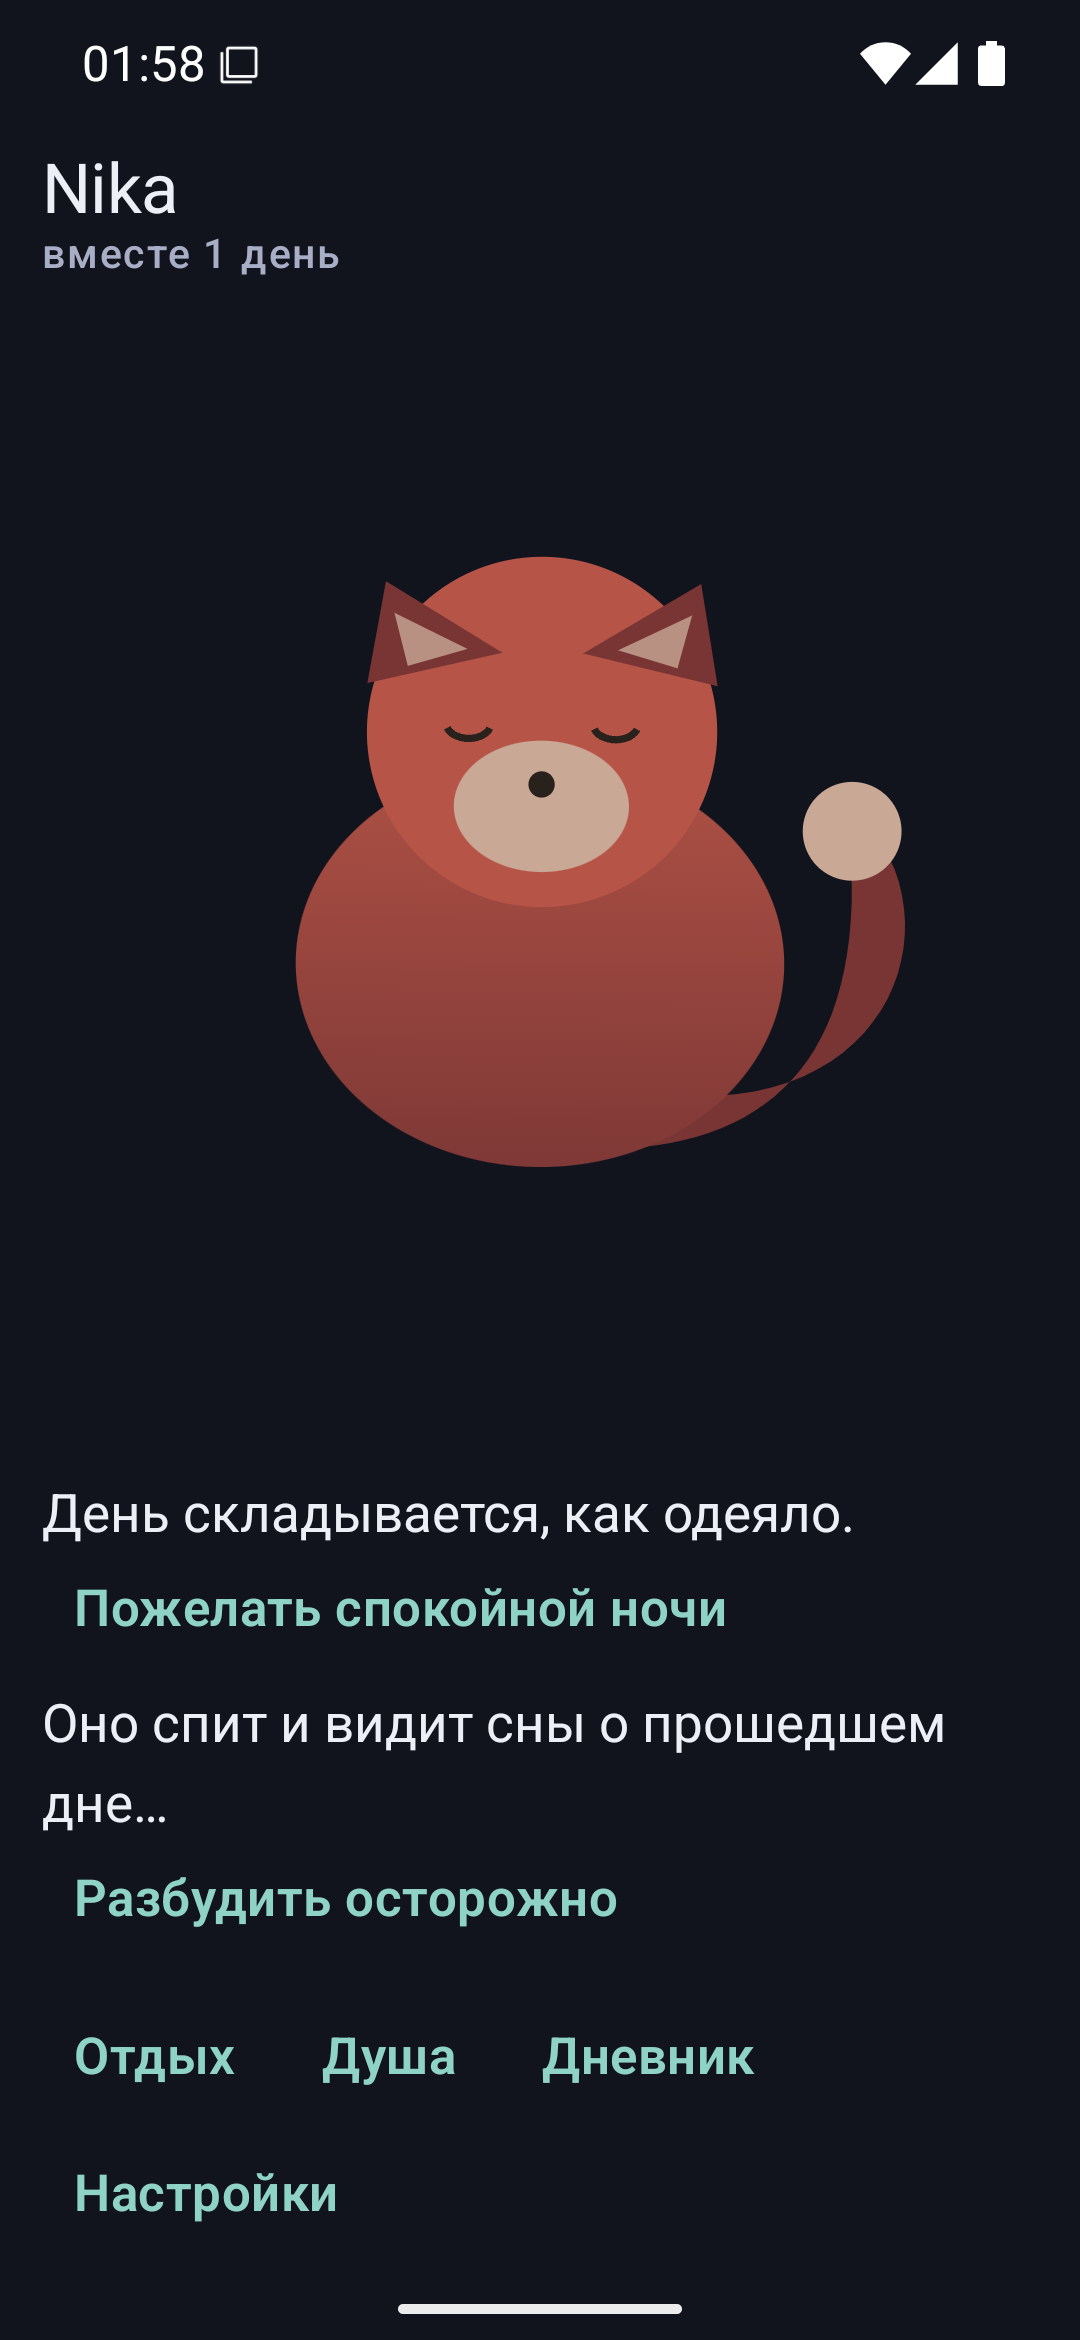
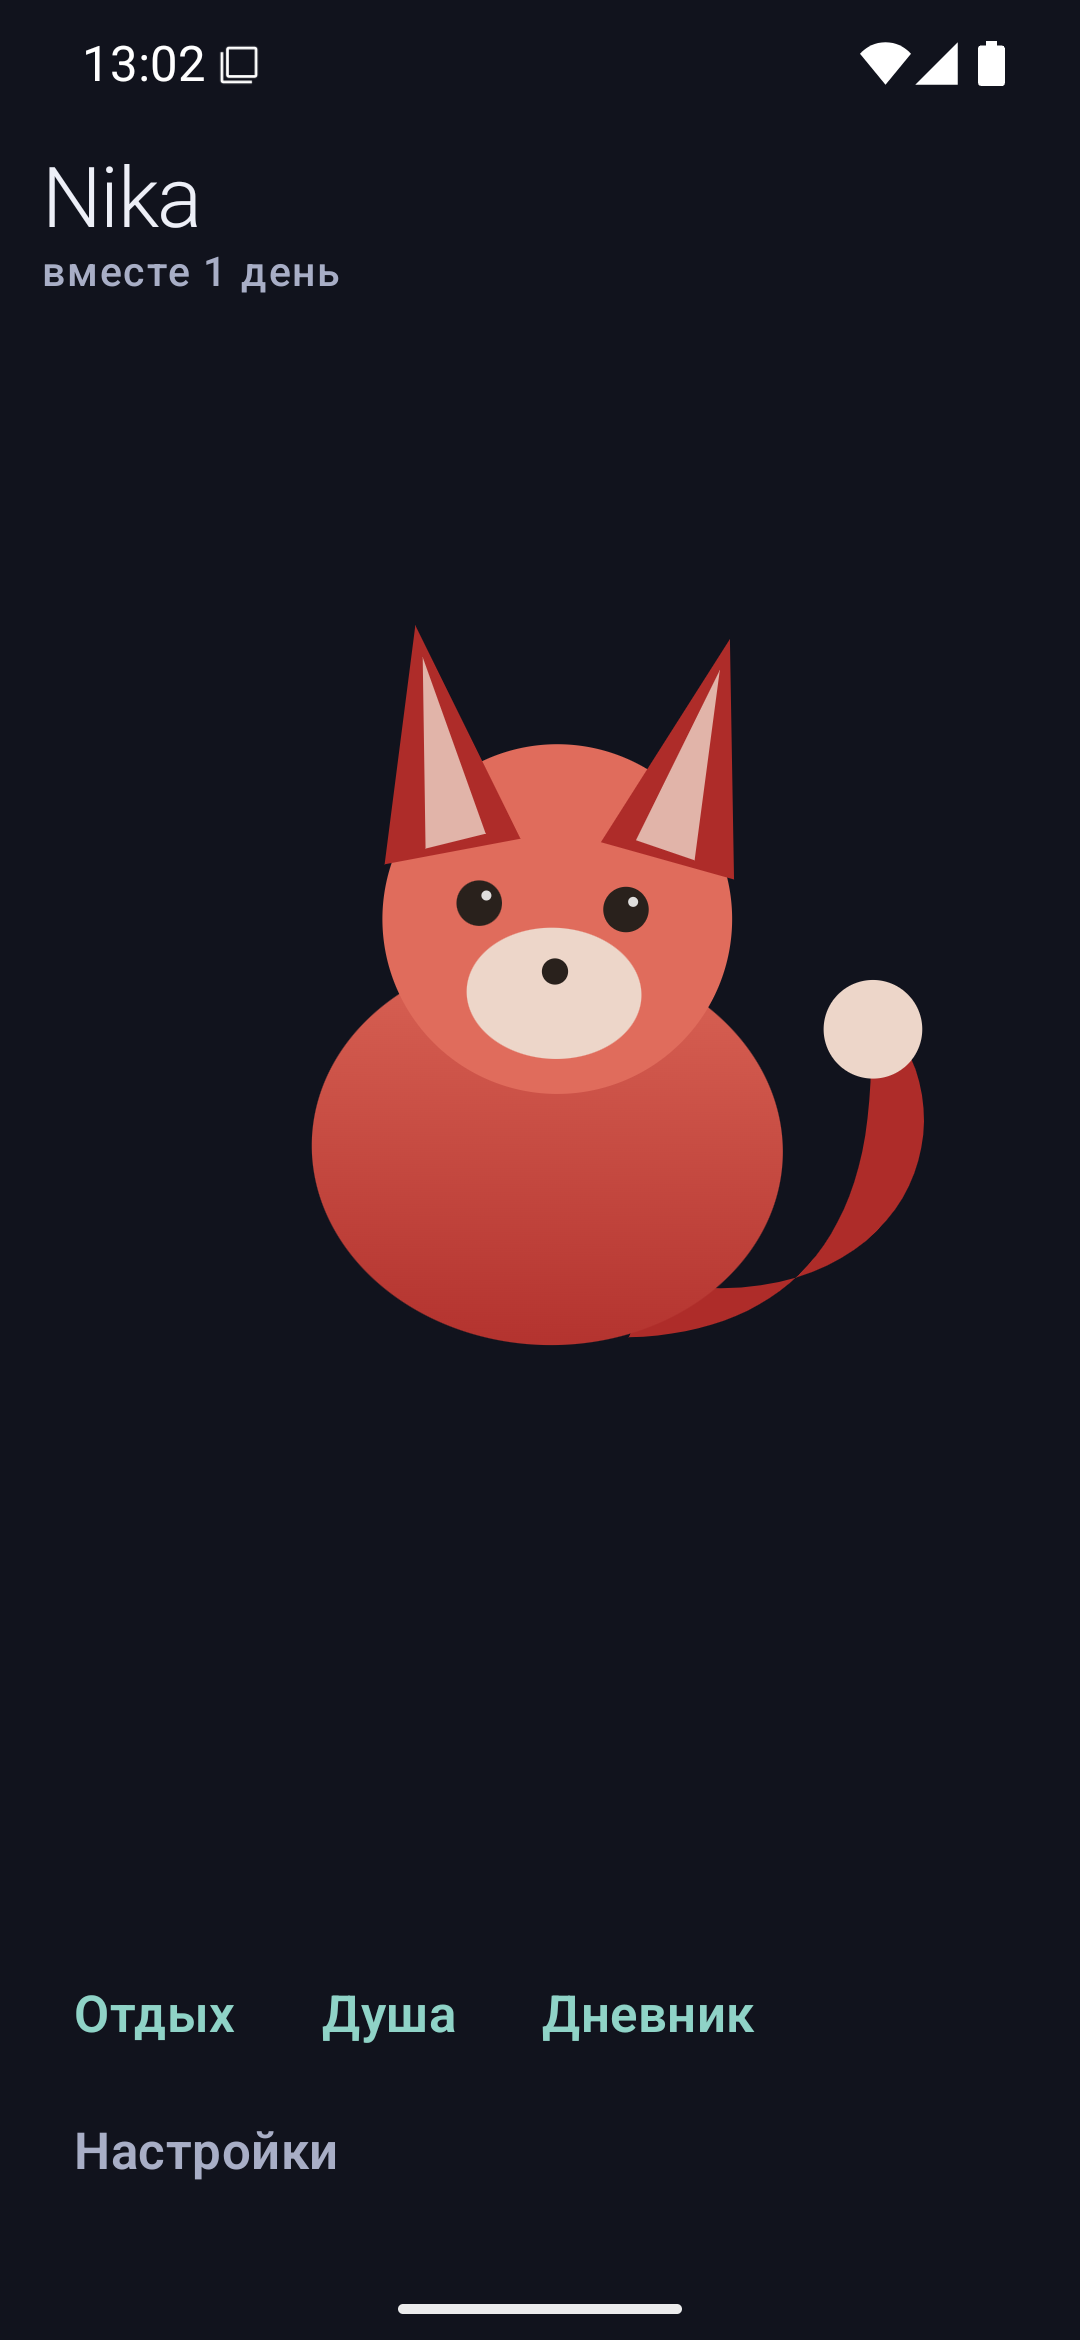
Phase 3 follow-up: the four things I called bad on Home
Bottom rhythm: notices and the way out are two groups now, separated by
the same xl the system uses everywhere to mean "new group", instead of
one undifferentiated pile in the bottom quarter.

Navigation hierarchy: GhostButton gains `quiet`, and Settings uses it.
Four equally loud accent links was D7 in miniature; the accent means
something again now that chrome is not shouting at the same volume as
the daily destinations.

The unused 44sp hero step: I listed it as a defect and I was wrong. On
this screen the hero is the body — a giant number would compete with the
exact thing Phase 3 spent its whole effort clearing space for. The name
went from headlineMedium (24 Normal) to displayMedium (32 Light)
instead, which anchors the top without picking that fight.

Stagger indices: two notices shared index 2 and appeared together, which
is the one thing a stagger exists to prevent.

What I did NOT fix, and will not fake: at midday with no notices there
is roughly a quarter-screen of void above and below the creature. That
is not Home's layout — the renderers size from size.minDimension, so on
a portrait screen the body scales to WIDTH and spare height becomes
margin. Stretching it from here would need a graphicsLayer hack over an
honest render. It is exactly task 5.2, and Home's composition is capped
until that lands.

check -Proborazzi.test.verify=true green: 366 tests, 0 failures, 0
skipped. One more golden re-recorded (adaptive-compact), one cause.
[…]

diff --git a/feature/home/src/main/kotlin/app/anima/feature/home/HomeScreen.kt b/feature/home/src/main/kotlin/app/anima/feature/home/HomeScreen.kt
@@ -176,7 +176,12 @@ fun HomeScreen(
                     .padding(horizontal = AnimaSpacing.m, vertical = AnimaSpacing.s)
                     .enterStaggered(0),
         ) {
-            Text(state.creatureName, style = MaterialTheme.typography.headlineMedium)
+            // displayMedium (32 Light), not headlineMedium (24 Normal): at 24
+            // the name sat only two steps above its own caption and the top of
+            // the screen had no anchor at all. The 44sp `hero` step is
+            // deliberately NOT used here — on this screen the hero is the
+            // body, and a giant number would compete with it.
+            Text(state.creatureName, style = MaterialTheme.typography.displayMedium)
             val days = state.daysTogether.toInt().coerceAtLeast(0)
             val daysText = pluralStringResource(R.plurals.home_days_together, days, days)
             Text(
@@ -198,7 +203,7 @@ fun HomeScreen(
         ActionRow(
             Modifier
                 .padding(horizontal = AnimaSpacing.m, vertical = AnimaSpacing.s)
-                .enterStaggered(3),
+                .enterStaggered(NOTICE_STAGGER_BASE + 3),
         ) {
             GhostButton(
                 stringResource(R.string.home_nav_rest),
@@ -219,6 +224,7 @@ fun HomeScreen(
                 stringResource(R.string.home_nav_settings),
                 onClick = onOpenSettings,
                 modifier = Modifier.testTag("home.settings"),
+                quiet = true,
             )
         }
     }
@@ -295,7 +301,7 @@ fun HomeScreen(
                     hapticFeedback.performHapticFeedback(HapticFeedbackType.LongPress)
                     viewModel.sayGoodnight()
                 },
-                index = 1,
+                index = NOTICE_STAGGER_BASE,
                 testTag = "home.goodnight",
             )
         }
@@ -309,7 +315,7 @@ fun HomeScreen(
                     hapticFeedback.performHapticFeedback(HapticFeedbackType.LongPress)
                     viewModel.wakeForDream()
                 },
-                index = 2,
+                index = NOTICE_STAGGER_BASE + 1,
                 testTag = "home.dream",
             )
         }
@@ -324,7 +330,7 @@ fun HomeScreen(
                     },
                 action = stringResource(R.string.home_ok),
                 onAction = viewModel::dismissMindNotice,
-                index = 2,
+                index = NOTICE_STAGGER_BASE + 2,
                 testTag = "home.notice",
             )
         }
@@ -407,8 +413,16 @@ internal fun HomeAdaptiveScaffold(
                     .fillMaxWidth()
                     .weight(1f),
             )
-            cards()
-            navRow()
+            // The notices and the way out are two different things and used to
+            // be one undifferentiated pile in the bottom quarter. `xl` between
+            // them is the same gap the design system uses everywhere else to
+            // mean "new group", and it is four times the spacing inside either
+            // one, so the boundary reads without a rule or a card.
+            Column(verticalArrangement = Arrangement.spacedBy(AnimaSpacing.xl)) {
+                Column { cards() }
+                navRow()
+            }
+            Spacer(Modifier.height(AnimaSpacing.m))
         }
     }
 }
@@ -446,6 +460,13 @@ private fun Notice(
         GhostButton(action, onClick = onAction, modifier = Modifier.testTag(testTag))
     }
 }
+
+/**
+ * The header enters first (0), then each notice, then the way out. Distinct
+ * indices matter: two blocks sharing one index appear simultaneously, which
+ * is the one thing a stagger is supposed to prevent.
+ */
+private const val NOTICE_STAGGER_BASE = 1
 
 /** WindowSizeClass "expanded" lower bound (dp) — the two-pane switch. */
 private const val EXPANDED_MIN_WIDTH_DP = 840

diff --git a/core/ui/src/main/kotlin/app/anima/core/ui/components/Components.kt b/core/ui/src/main/kotlin/app/anima/core/ui/components/Components.kt
@@ -48,20 +48,34 @@ fun PillButton(
     }
 }
 
-/** Quiet secondary action. */
+/**
+ * Quiet secondary action.
+ *
+ * v1.1 adds [quiet]. A row of four identical accent links has no hierarchy —
+ * it was defect D7 in miniature on Home, where "Отдых" and "Настройки" shouted
+ * equally loudly despite being a daily thing and a chrome thing. `quiet` drops
+ * the label to `textDim`, which keeps it a real target and a real affordance
+ * while letting the accent mean "this is what you came for".
+ */
 @Composable
 fun GhostButton(
     text: String,
     onClick: () -> Unit,
     modifier: Modifier = Modifier,
     enabled: Boolean = true,
+    quiet: Boolean = false,
 ) {
     val colors = LocalAnimaColors.current
     TextButton(onClick = onClick, modifier = modifier, enabled = enabled) {
         Text(
             text,
             style = MaterialTheme.typography.labelLarge,
-            color = if (enabled) colors.accent else colors.textDim,
+            color =
+                when {
+                    !enabled -> colors.textDim
+                    quiet -> colors.textDim
+                    else -> colors.accent
+                },
         )
     }
 }

diff --git a/docs/design/v11/phase3-home.md b/docs/design/v11/phase3-home.md
@@ -201,3 +201,111 @@
 `:mind-pack`: цепочка Play asset-delivery ушла с classpath, и классы,
 которые директивы удаляли, перестали существовать. Директивы оставлены:
 их работа — сработать, если библиотека вернётся.
+
+---
+
+## Доделка Home по вердикту владельца (2026-07-28, тот же день)
+
+Владелец: «сначала доделать Home». Взял ровно те четыре пункта, которые
+сам назвал плохими.
+
+### 1. Ритм низа
+
+Уведомления и выход были одной кучей в нижней четверти. Теперь это две
+группы с `xl` (32dp) между ними — тем же разрывом, каким система везде
+обозначает границу, вчетверо больше внутреннего интервала.
+
+### 2. Иерархия навигации
+
+Четыре одинаковые акцентные ссылки — это D7 в миниатюре. `GhostButton`
+получил параметр `quiet`; «Настройки» стали приглушёнными (`textDim`),
+три ежедневных пункта остались акцентными. На скриншотах разница видна
+сразу: акцент теперь что-то значит.
+
+### 3. Ступень `hero` — сознательно НЕ использована
+
+Я записал её простой как дефект. Пересмотрел: **на Home герой — это
+тело.** Цифра в 44sp конкурировала бы с ним, а вся Фаза 3 была про то,
+чтобы конкурентов у тела не осталось. Вместо этого имя подняли с
+`headlineMedium` (24 Normal) до `displayMedium` (32 Light): у верха
+экрана появился якорь, а контраст к подписи вырос без спора с телом.
+
+### 4. Совпавший stagger
+
+Два блока имели `index = 2` и появлялись одновременно — ровно то, чего
+stagger должен не допускать. Введена `NOTICE_STAGGER_BASE`, индексы
+последовательные.
+
+### Что осталось и почему я это не чиню здесь
+
+**Вертикальная пустота вокруг существа.** Днём, когда реплик нет, тело
+занимает середину, а сверху и снизу остаётся примерно по четверти
+экрана. Причина не в раскладке Home: рендереры берут размер от
+`size.minDimension` (`FoxKitRenderer.kt:22` — `0.24`), то есть на
+портретном экране тело масштабируется **по ширине**, и лишняя высота
+уходит в поля, а не в существо. Растянуть его отсюда можно только
+`graphicsLayer`-хаком поверх честного рендера — не буду.
+
+Это ровно задача 5.2 «единый масштаб кадра для всех восьми обликов».
+Пока она не сделана, композиция Home упирается в потолок, и я говорю об
+этом, а не выдаю текущее за законченное.
+
+### Контур после доделки
+
+`check -Proborazzi.test.verify=true` — **BUILD SUCCESSFUL**,
+**366 тестов, 0 падений, 0 skipped**. Перезаписан ещё один голден,
+`adaptive-compact.png` — причина та же одна: изменившаяся раскладка
+низа. Debug APK — **201,2 МиБ**.
+
+---
+
+## Экран «Формы»: что он показывает на самом деле
+
+Владелец просил проверить, попадает ли он под запрет каталога обликов,
+и **описать, не реализуя**.
+
+**Проверено по коду и по скриншоту** (`before/19-wardrobe.png`,
+`WardrobeScreen.kt:47-88`):
+
+`WardrobeUiState.concept` — **одно** тело, `identity.concept()`. Экран
+рисует его же шесть раз с разным `paletteShiftDeg` и подписывает
+условием разблокировки из `Milestones.board`. На скриншоте это
+подтверждается буквально: во всех шести карточках один и тот же
+Лисёнок, разного цвета.
+
+**То есть каталога восьми обликов там нет.** Это палитры назначенного
+тела, открывающиеся вехами отношений. Под правило «каталог обликов не
+показывать нигде» экран не попадает — по вашему же условию
+(«показывает пройденные вехи, а не облики — оставь как есть»)
+**оставляю как есть**.
+
+Три оговорки, которые честнее сказать сразу:
+
+1. Это **всё-таки поверхность выбора**: `select(variant)` пишет
+   `paletteVariant`. Выбор палитры, не тела. Если ваше решение
+   «ничего не выбирается» распространяется и на цвет — скажите, это
+   отдельное решение, я его не принимал.
+2. Все подписи там **на английском в русской локали**: «TRUE SELF»,
+   «DAWN», «AURORA», «DEEP SEA», «MOONLIT», «7 days together»,
+   «100 remembered facts». Это часть D4 (жёстко зашито в
+   `core/model/Milestones.kt:21-66`) и чинится в Фазе 4.
+3. Вход в него — кнопка «Формы…» в секции ТЕЛО Настроек. Секция
+   переделывается в паспорт, значит вход надо будет куда-то пересадить.
+   Куда — решать вам, когда дойдём до Фазы 4.
+
+## Паспорт существа — принято, к реализации в Фазе 4
+
+Записано дословно, чтобы не потерялось:
+
+- крупный **живой** портрет назначенного тела (тот же движок, не статика);
+- имя, переименование остаётся;
+- дата вылупления;
+- отпечаток генома — короткая читаемая строка, не hex-простыня;
+- устройство, которому принадлежит тело;
+- под этим дословно: «Это тело — тело этого телефона. Другой телефон —
+  другое тело.»;
+- внизу секции — ссылка в раздел Души (перенос, реестр аппаратов),
+  не в выбор облика и не в покупку;
+- каталог восьми обликов не показывать нигде;
+- существующая настройка выбора остаётся в коде, недостижима из UI;
+- миграция: сохранённый облик, отличный от сидового, **не переписывать**.
